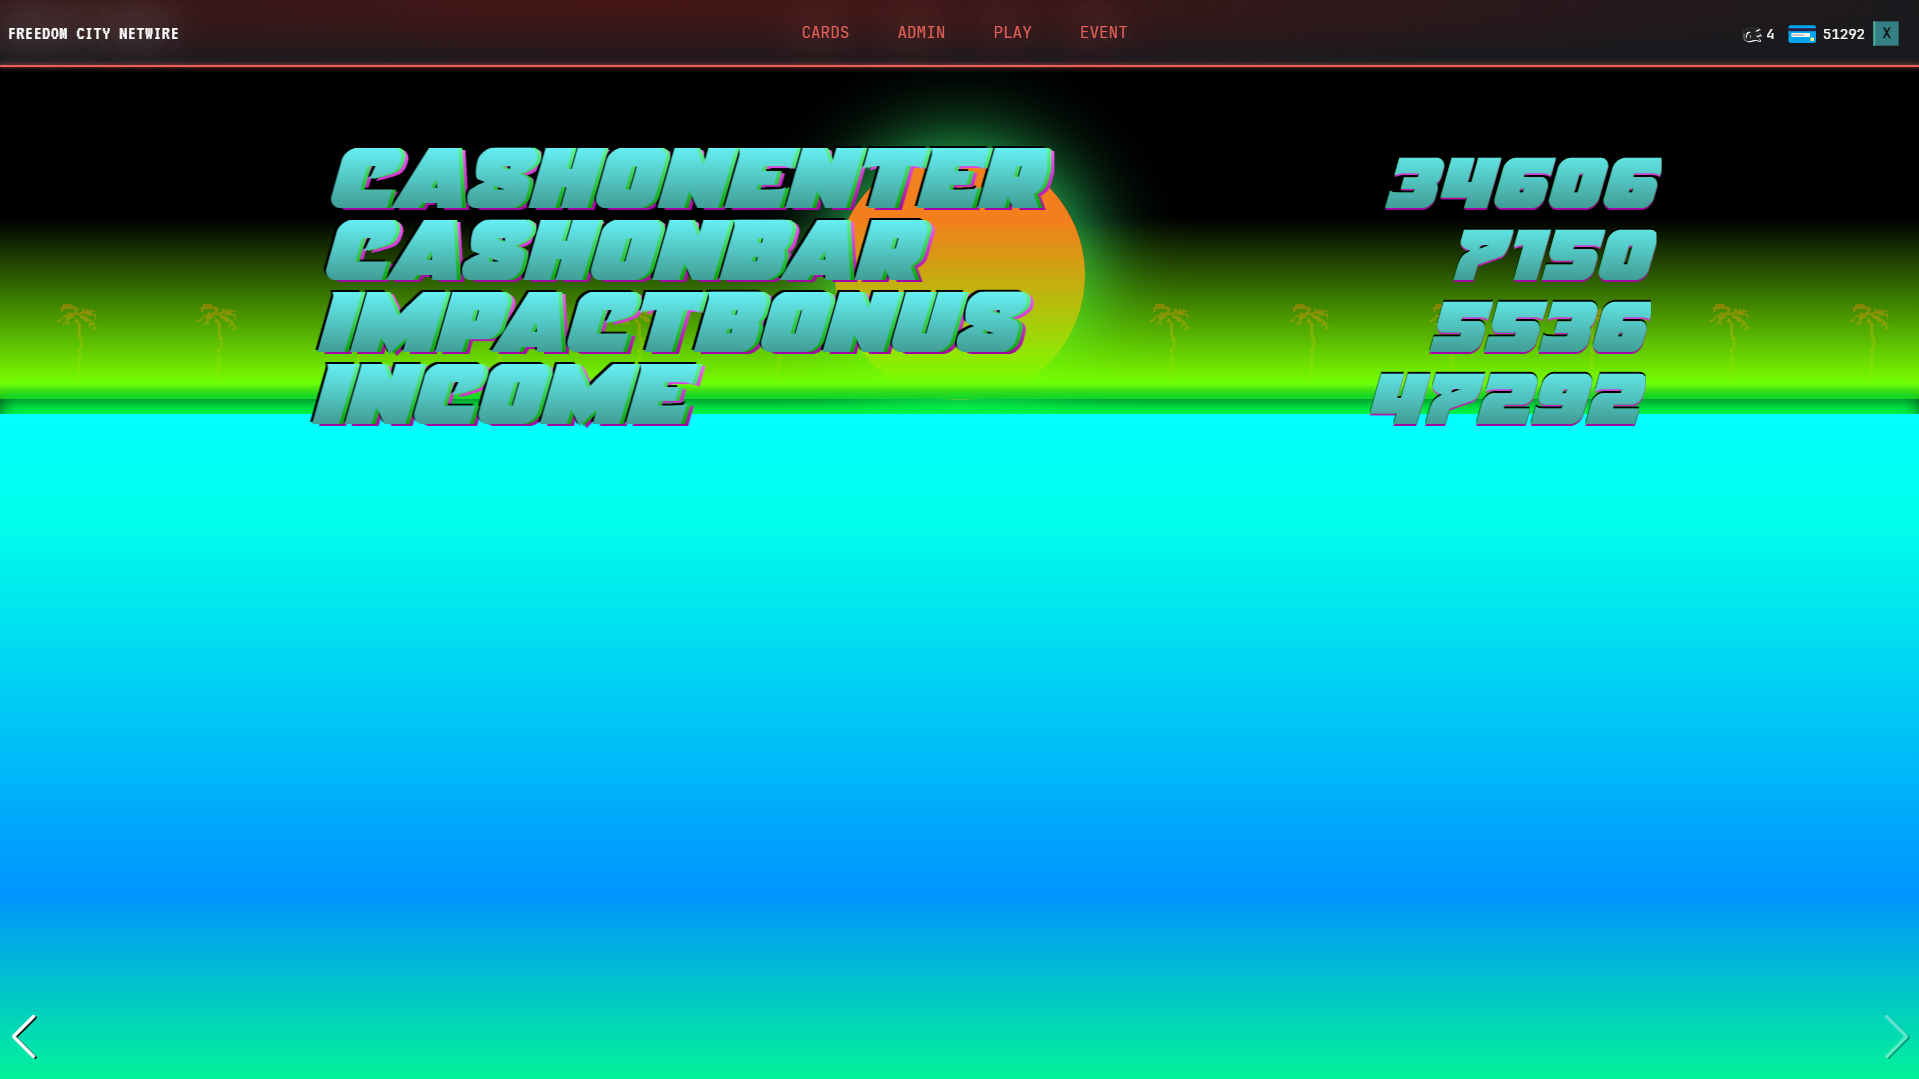
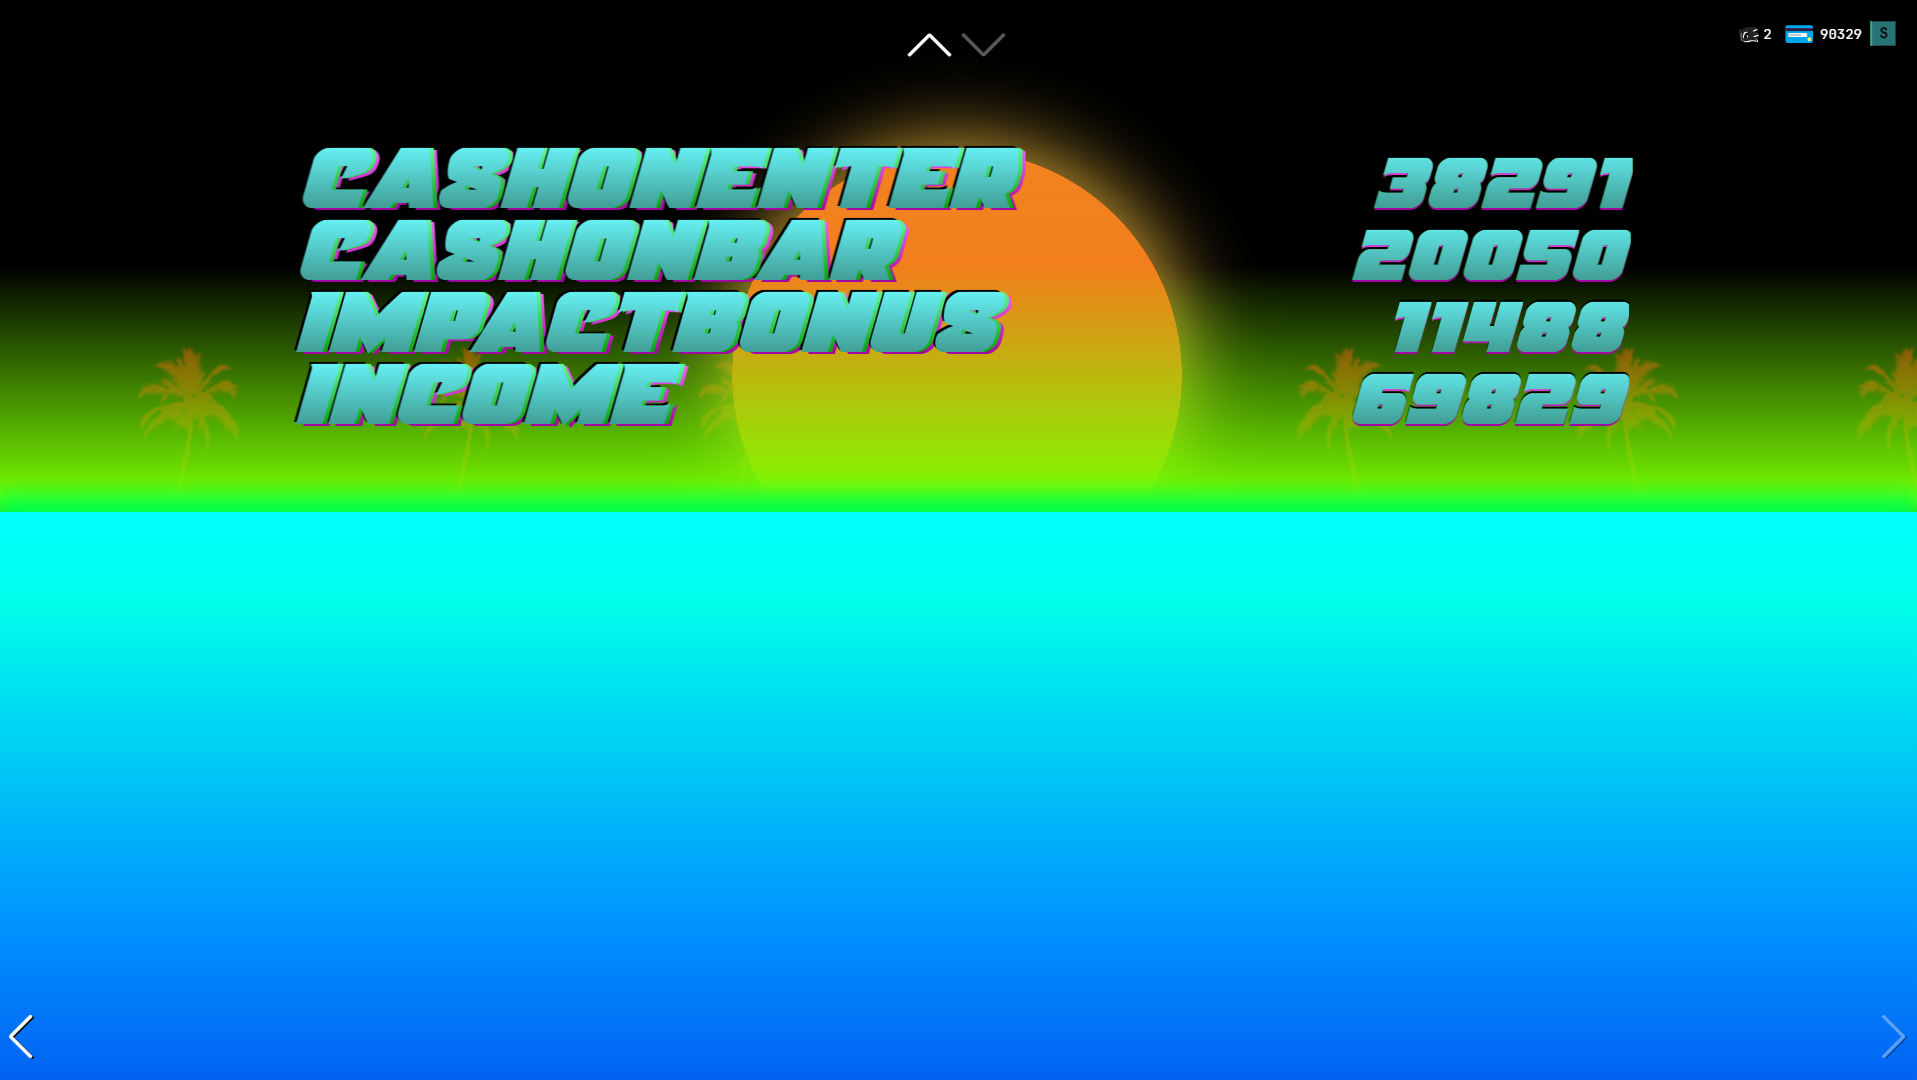
upd

diff --git a/css/blocks/check.css b/css/blocks/check.css
@@ -129,7 +129,7 @@
     flex-direction: column;
     flex-grow: 1;
     padding-top: 100px;
-    background: linear-gradient(to bottom, #01ffff 0%, #00ffeb 16%, #0094ff 72%, #02f398 100%);
+    background: linear-gradient(to bottom, #01ffff 0%, #00ffeb 16%, #0094ff 72%, #0262f3 100%);
     box-shadow: 0px -13px 21px 5px rgb(0, 255, 73);
     height: 40%;
     position: relative;
